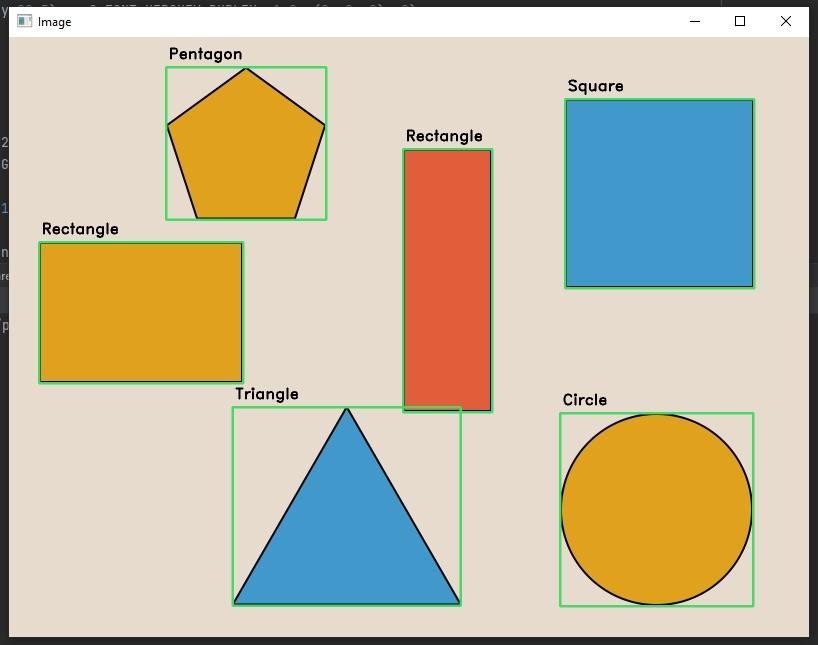
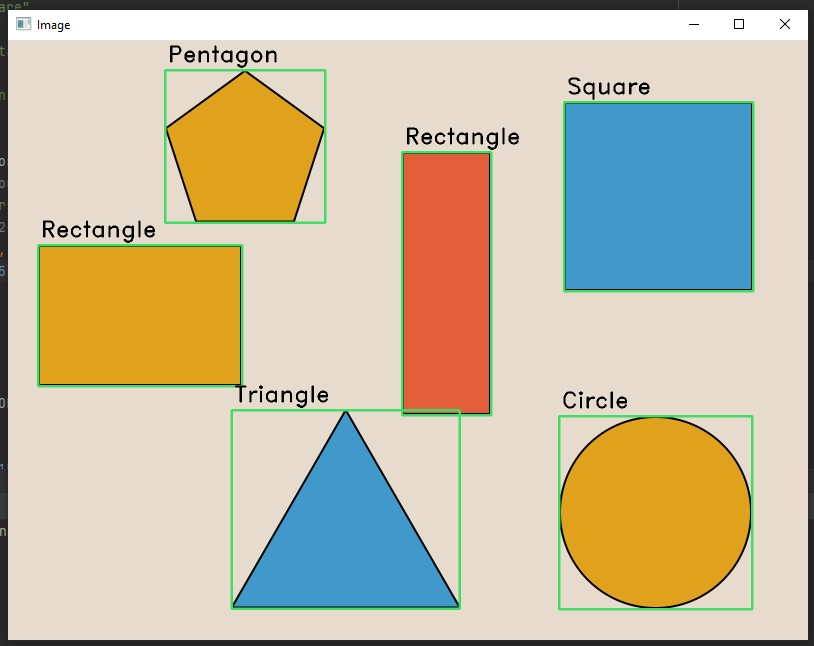
image

diff --git a/shape-detection.py b/shape-detection.py
@@ -32,7 +32,7 @@ def getContours(img):
             # cv2.putText(imgContours, obj_type,
             #             (x+5, y-22+5), cv2.FONT_HERSHEY_DUPLEX, 1.0, (255, 255, 255), 5)
             cv2.putText(imgContours, obj_type,
-                        (x+5, y-22+5), cv2.FONT_HERSHEY_DUPLEX, 1.0, (0, 0, 0), 2)
+                        (x+5, y-22+5), cv2.FONT_HERSHEY_DUPLEX, 1.5, (0, 0, 0), 2)
 
 path = 'assets/shapes2.png'
 img = cv2.imread(path)
